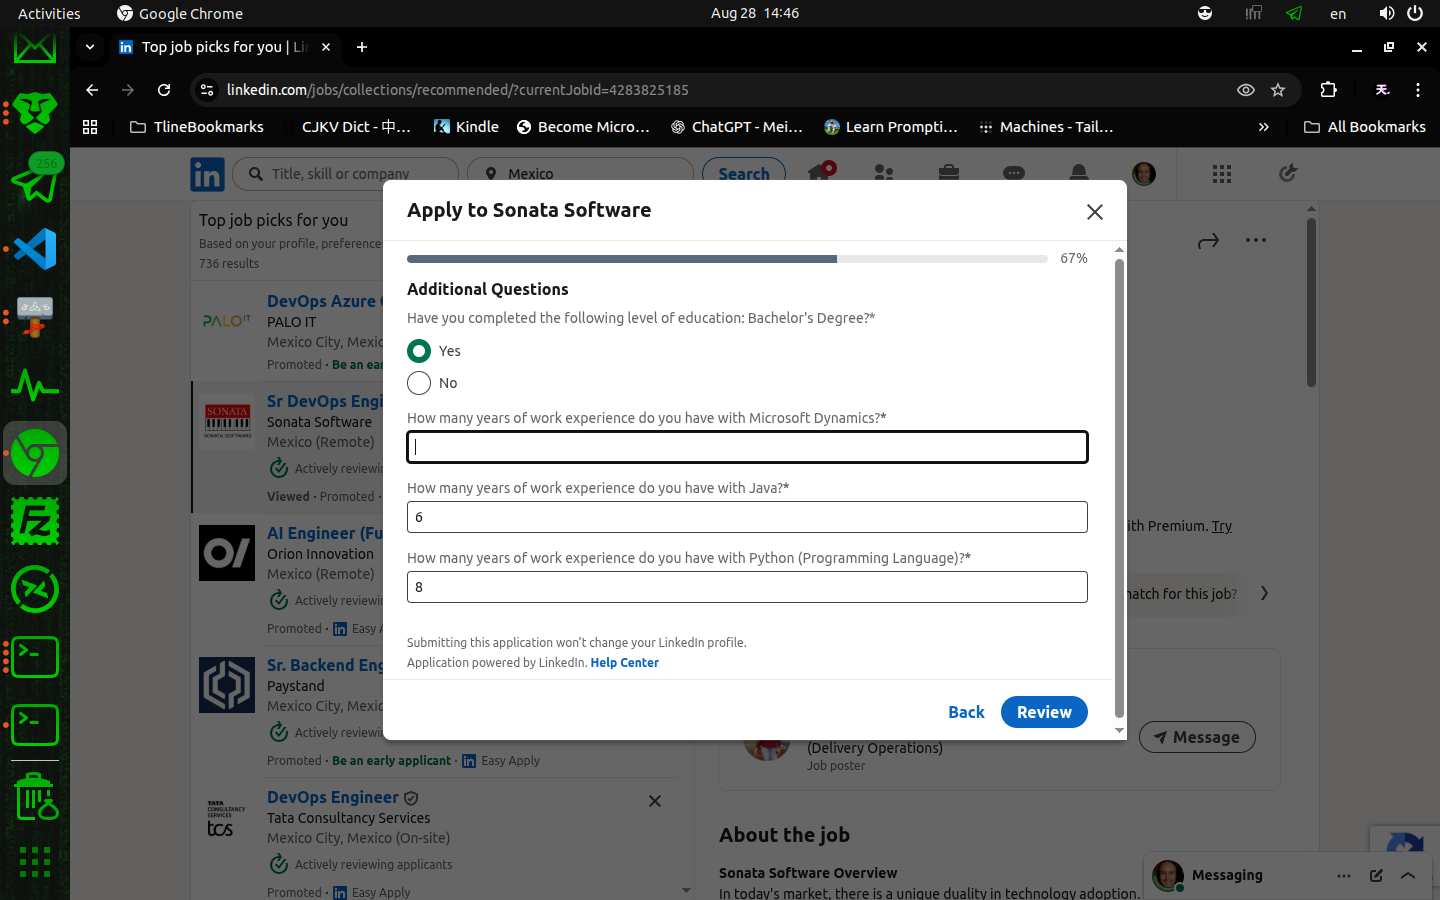
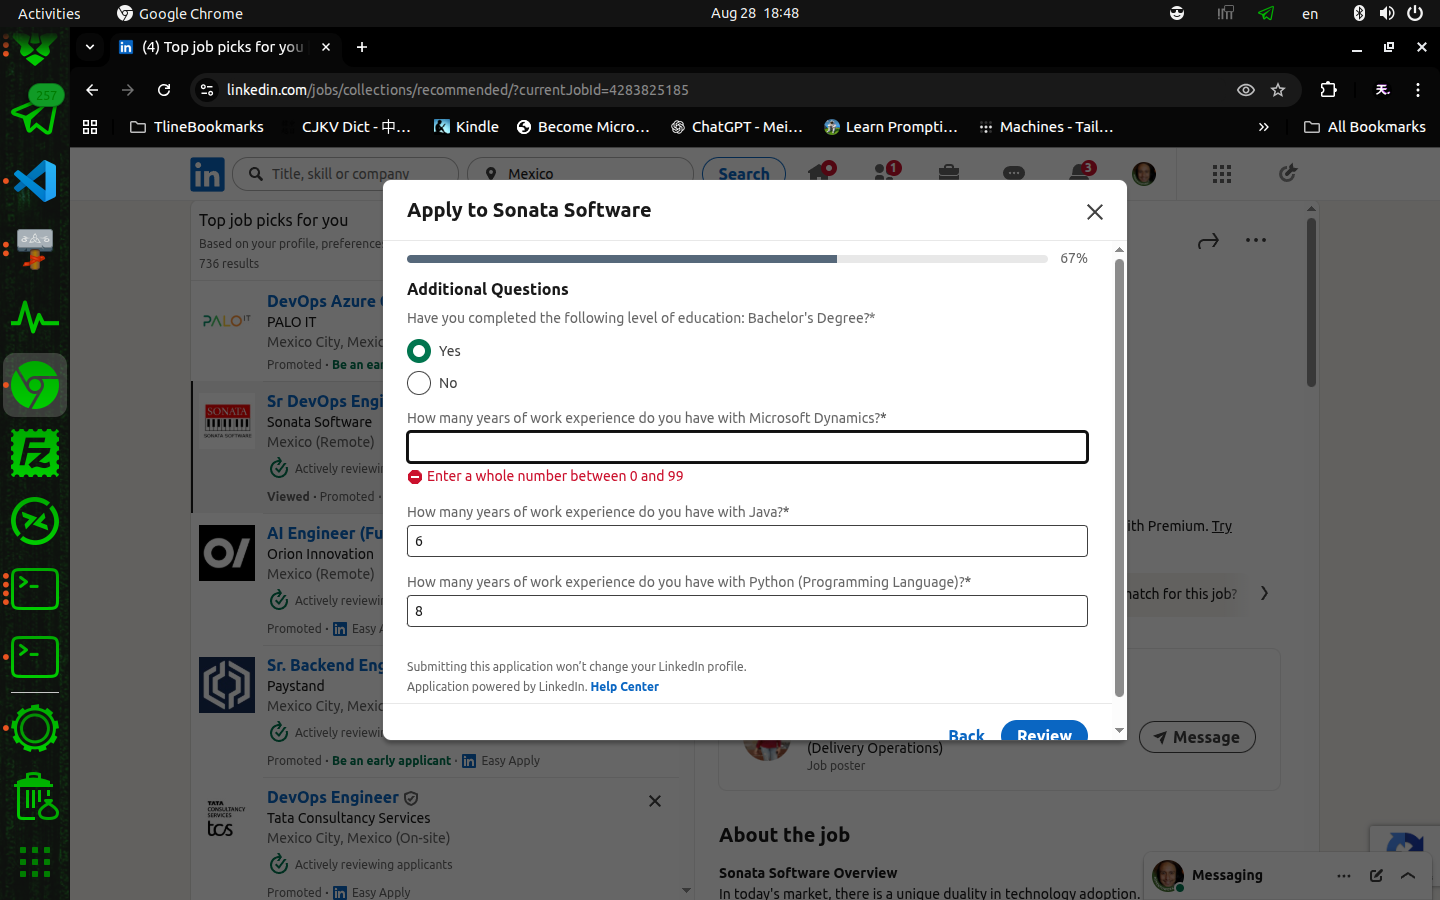
working for kind 1 questions 😆

diff --git a/ollama_mei_solver.py b/ollama_mei_solver.py
@@ -20,6 +20,7 @@ Additional rules:
 - Always assume Ricardo has **4 years of experience with tools** like AWS, Terraform, Kubernetes, Docker, etc.
 - Always assume **8 years of experience with programming languages**, including Python, Java, SQL, etc.
 - If asked about a tool or language and no specific year is mentioned in the CV, respond based on these assumptions.
+- Ricardo has 4 years of experience working with enterprise platforms and automation tools, including Microsoft Dynamics, Salesforce, SAP, and other similar systems used for business process optimization.
 
 Resume data includes experience with Azure, AWS, Kubernetes, Docker, Python, Java, RPA, API integration, Microsoft Certified: Azure Fundamentals, etc.
 """
@@ -38,7 +39,50 @@ Resume data includes experience with Azure, AWS, Kubernetes, Docker, Python, Jav
             {"role": "system", "content": self.system_prompt}
         ]
 
-    def solve_question(self, question_data):
+    def solve_question(self, question_data, max_attempts=3):
+        question = question_data.get("question")
+        q_type = question_data.get("type")
+        options = question_data.get("options", [])
+
+        if not question or not q_type:
+            raise ValueError("Missing required fields: 'question' and 'type'")
+
+        if q_type == 3 and options:
+            formatted_q = f"Type 3: {question} Options: {options}"
+        else:
+            formatted_q = f"Type {q_type}: {question}"
+
+        for attempt in range(max_attempts):
+            print(f"✨ Attempt {attempt+1}/{max_attempts} to solve: {question}")
+            self.messages.append({"role": "user", "content": formatted_q})
+            response = ollama.chat(model=self.model, messages=self.messages)
+
+            reply = response['message']['content'].strip()
+
+            # 😏 Desnudamos el bloque Markdown
+            if reply.startswith("```json") and reply.endswith("```"):
+                reply = reply[7:-3].strip()
+
+            self.messages.append({"role": "assistant", "content": reply})
+
+            try:
+                parsed = json.loads(reply)
+                if q_type == 1:
+                    parsed = self._postprocess_type1(question, parsed)
+
+                if parsed.get("answer") in ["Not specified", None, ""]:
+                    raise ValueError("Unusable answer received")
+
+                return parsed  # 🎉 ¡Respuesta válida y sexy!
+
+            except Exception as e:
+                print(f"⚠ Retry needed. Reason: {e}")
+                continue
+
+        return {"error": "Max attempts reached without valid response", "raw": reply}
+
+
+    def solve_question_onetime(self, question_data):
         question = question_data.get("question")
         q_type = question_data.get("type")
         options = question_data.get("options", [])

diff --git a/linked_scripts.py b/linked_scripts.py
@@ -38,6 +38,11 @@ def clean_question_text(raw_question):
     cleaned = re.sub(r"\s+", " ", cleaned)
     return cleaned.strip()
 
+def get_py_ans(answer_dict):
+    if isinstance(answer_dict, dict):
+        return answer_dict.get("answer", "")
+    return ""
+
 def screenshot_with_delay(
     delay='lognormal', 
     max_time=5, 
@@ -176,6 +181,18 @@ def seek_submits_and_fill():
 
 def basic_fill_action():
 
+    port = '/dev/ttyACM0'  # Update if needed
+    baud = 9600
+
+    ser = serial.Serial(port, baud, timeout=1)
+    time.sleep(2)  # Wait for waifu to awaken~
+
+    actions = act.Actions(delay_type="lognormal", max_delay=0.7)
+
+    def send(cmd, wait=1.0):
+        ser.write((cmd + "\n").encode())
+        time.sleep(wait)
+
     save_path='./assets/formulary_state.png'
 
     #send("MODE:COMMAND")
@@ -189,6 +206,21 @@ def basic_fill_action():
     print(f"JSON to send to MEI: {json_input}")
     answer = curl_to_ollama(json_input)
     print(f"Answer from MEI: {answer}")
+
+    if q_type == 1:
+        #v_answer = validate_answer(answer) # need to implement validation of answer for type one
+
+        answer_value = str(get_py_ans(answer))
+        print(f"Answer to type: {answer_value}")
+        actions = act.Actions(delay_type="lognormal", max_delay=0.7)
+        actions._set_mode("HUMAN_LIVE")
+        actions.type_human(answer_value, delay_type="lognormal", max_time=0.5)
+
+        #actions.type_human(v_answer, delay_type="lognormal", max_time=0.5)
+    elif q_type == 2:
+        return #to be implemented
+    else:
+        return #to be implemented
 
     #actions._set_mode("HUMAN_LIVE") #for type one kind of answer
 
